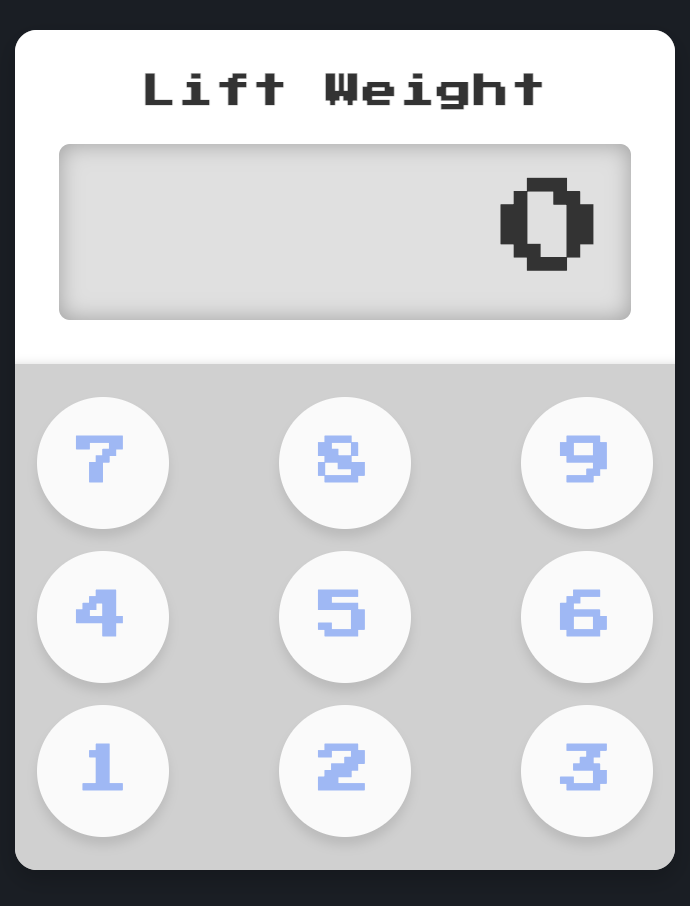
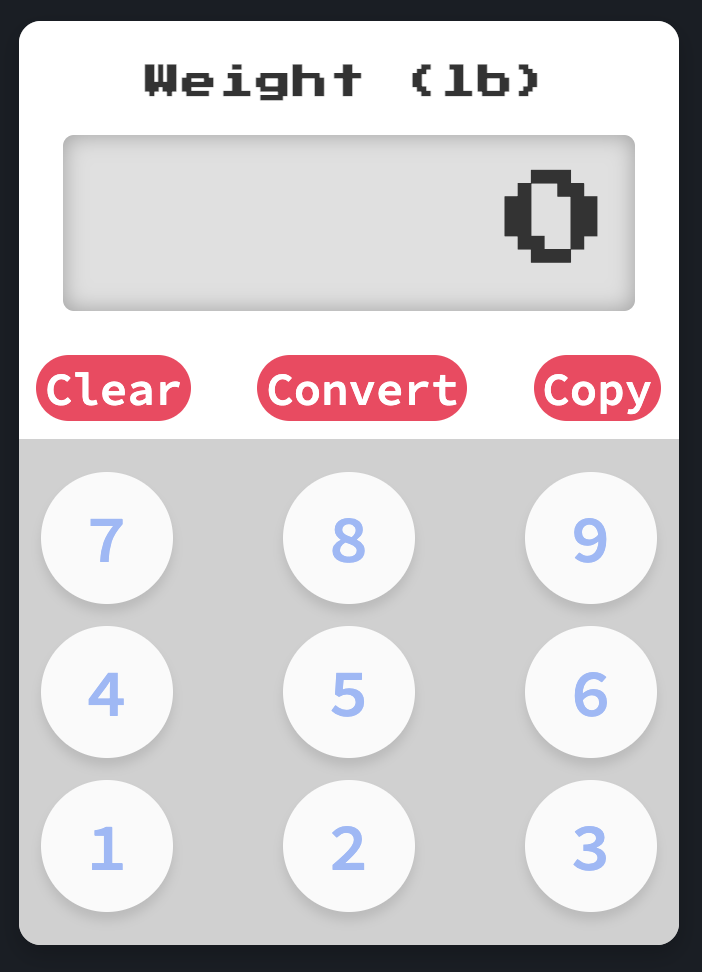
Refactor handlePress to one-liner using ternary operator

Changed region(s): [[0.0, 0.0, 1.0, 0.989]]

diff --git a/styles/_simpleForm.scss b/styles/_simpleForm.scss
@@ -11,7 +11,6 @@
     padding: 20px;
     border-top-left-radius: 10px;
     border-top-right-radius: 10px;
-    box-shadow: inset 0 -4px 5px -5px rgba(0, 0, 0, 0.2);
 
     .heading {
       text-align: center;
@@ -47,19 +46,20 @@
   .control-buttons {
     display: flex;
     justify-content: space-between;
-    padding: 0.5rem; // Adjust as needed
+    padding: 0 0.5rem 0.5rem 0.5rem; // Adjust as needed
+    background: white;
 
     button {
       background: #fc385d; // Match the background of other buttons
-      border-radius: 0px;
+      border-radius: 1rem;
       border: none;
-      padding: 0.25rem 0.5rem; // Adjust for a more rectangular shape
+      padding: 0.125rem 0.25rem; // Adjust for a more rectangular shape
       font-size: 1.3rem;
       color: white; // Match the text color of other buttons
       cursor: pointer;
       transition: background-color 0.3s ease;
       font-family: 'Source Code Pro', monospace; // Replace with your monospace font
-      font-weight: bold;
+      font-weight: 600;
 
       &:hover {
         background-color: #e0e0e0; // A subtle hover effect
@@ -92,6 +92,8 @@
           cursor: pointer;
           user-select: none;
           color: #98b9f9;
+          font-family: 'Source Code Pro', monospace; // Replace with your monospace font
+          font-size: 1.9rem;
           transition:
             background-color 0.3s,
             box-shadow 0.3s;

diff --git a/app/styles/style.css b/app/styles/style.css
@@ -68,7 +68,6 @@ body {
   padding: 20px;
   border-top-left-radius: 10px;
   border-top-right-radius: 10px;
-  box-shadow: inset 0 -4px 5px -5px rgba(0, 0, 0, 0.2);
 }
 .simple-form .top-container .heading {
   text-align: center;
@@ -100,19 +99,20 @@ body {
 .simple-form .control-buttons {
   display: flex;
   justify-content: space-between;
-  padding: 0.5rem;
+  padding: 0 0.5rem 0.5rem 0.5rem;
+  background: white;
 }
 .simple-form .control-buttons button {
   background: #fc385d;
-  border-radius: 0px;
+  border-radius: 1rem;
   border: none;
-  padding: 0.25rem 0.5rem;
+  padding: 0.125rem 0.25rem;
   font-size: 1.3rem;
   color: white;
   cursor: pointer;
   transition: background-color 0.3s ease;
   font-family: "Source Code Pro", monospace;
-  font-weight: bold;
+  font-weight: 600;
 }
 .simple-form .control-buttons button:hover {
   background-color: #e0e0e0;
@@ -141,6 +141,8 @@ body {
   cursor: pointer;
   user-select: none;
   color: #98b9f9;
+  font-family: "Source Code Pro", monospace;
+  font-size: 1.9rem;
   transition: background-color 0.3s, box-shadow 0.3s;
 }
 .simple-form .bottom-container .buttons .row button:hover {

diff --git a/app/components/WeightTile.tsx b/app/components/WeightTile.tsx
@@ -25,21 +25,23 @@ export default function WeightTile({
   workoutId: number;
 }) {
   const [usrInput, setUsrInput] = React.useState('0');
-  function handlePress(buttonId: string) {
-    // This function edits the usrInput state:
-    // 1. If the usrInput is 0, replace it with the buttonId
-    // 2. If the usrInput is not 0, append the buttonId to the end of the usrInput string
-    if (usrInput === '0') {
-      setUsrInput(buttonId);
+  function handlePress(action: string) {
+    const numberAction = Number(action);
+    if (!isNaN(numberAction)) {
+      setUsrInput(usrInput === '0' ? action : usrInput + action);
     } else {
-      setUsrInput(usrInput + buttonId);
+      switch (action) {
+        case 'clear':
+          setUsrInput('0');
+          break;
+      }
     }
   }
   return (
     <div className='simple-form'>
       <div className='top-container'>
         <div className='heading'>
-          <p>Lift Weight</p>
+          <p>Weight (lb)</p>
         </div>
         <div className='display'>{usrInput}</div>
       </div>
